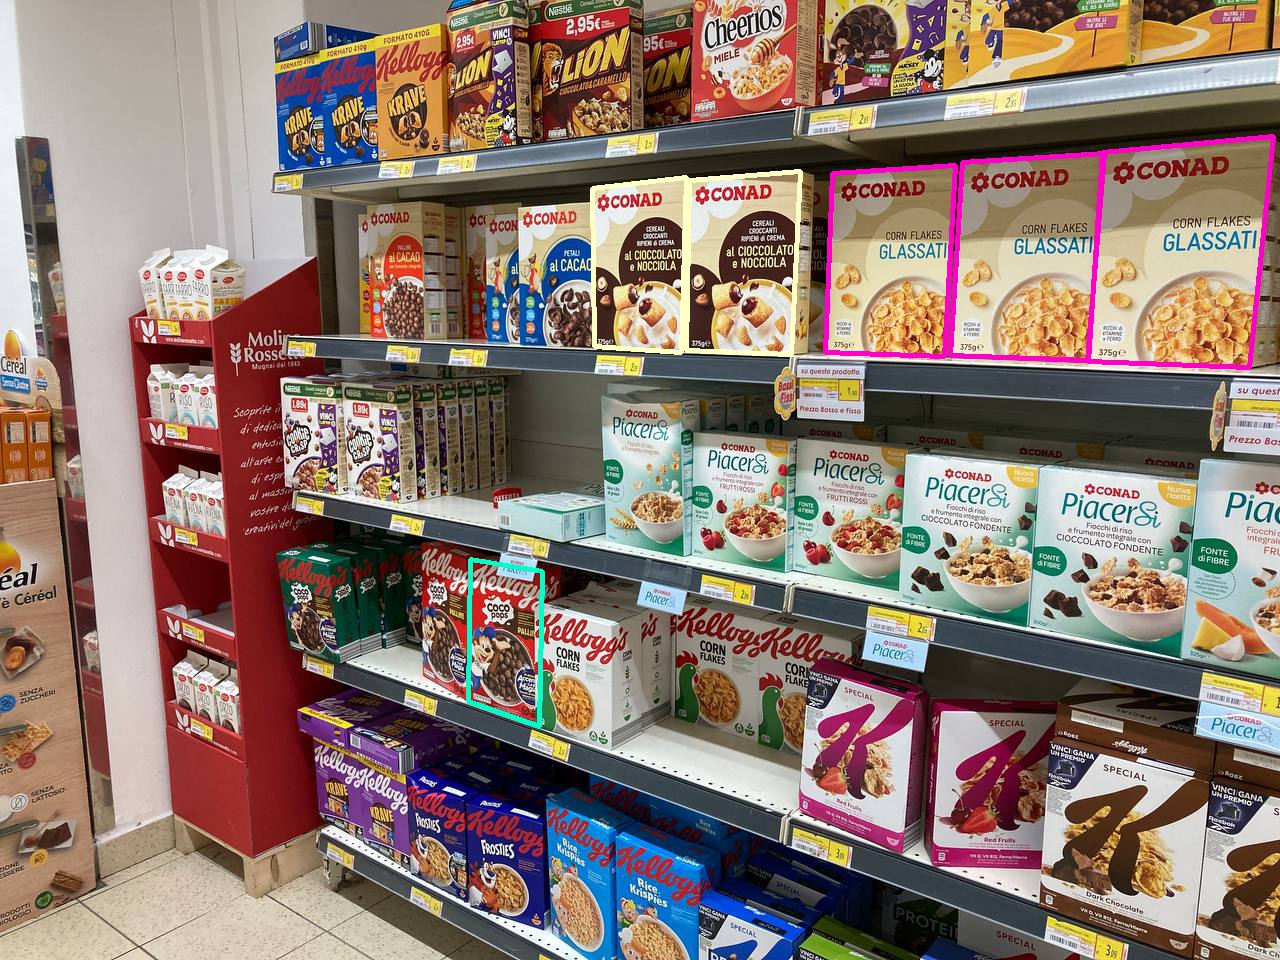
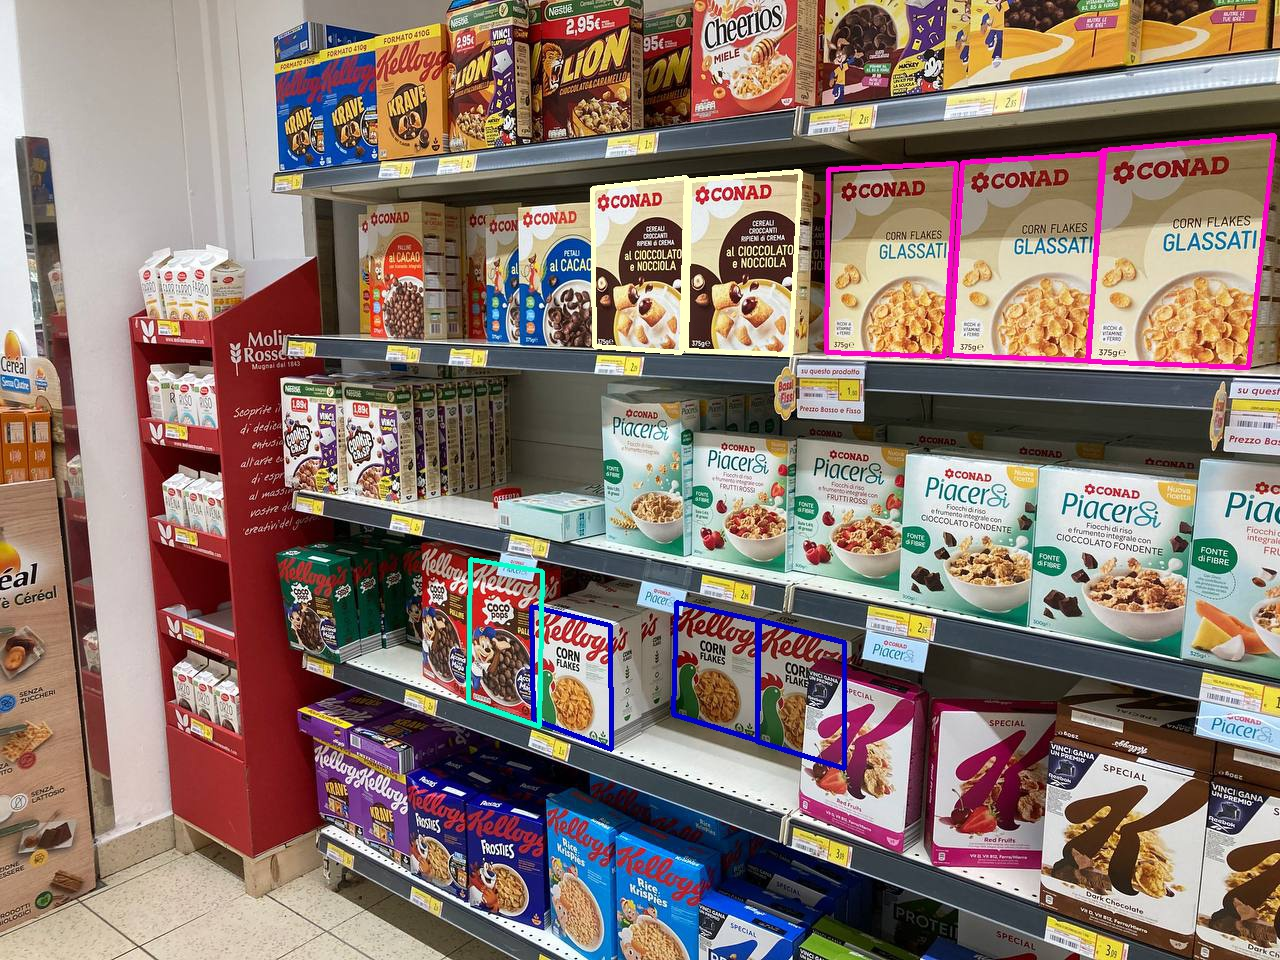
Multiple Templates Detection

diff --git a/template_match_multiple_templates.py b/template_match_multiple_templates.py
@@ -27,6 +27,7 @@ for i, t in enumerate(templates):
     keypoints_obj, descriptors_obj = detector.detectAndCompute(t.image, None)
     keypoints_templates.append(keypoints_obj)
     descriptors_templates.append(descriptors_obj)
+    detector = cv.xfeatures2d_SIFT.create()
 
 keypoints_scene, descriptors_scene = detector.detectAndCompute(img_scene, None)
 
@@ -37,7 +38,7 @@ for i, t in enumerate(templates):
     knn_matches = matcher.knnMatch(descriptors_templates[i], descriptors_scene, 2)
 
     #Filter matches using the Lowe's ratio test
-    ratio_thresh = 0.75
+    ratio_thresh = 0.8
     good_matches_obj = []
     for m,n in knn_matches:
         if m.distance < ratio_thresh * n.distance:
@@ -48,8 +49,6 @@ for i, t in enumerate(templates):
 img_matches = img_scene
 
 for i, t in enumerate(templates):
-    #img_matches = np.empty((max(templates[i].image.shape[0], img_scene.shape[0]), templates[i].image.shape[1]+img_scene.shape[1], 3), dtype=np.uint8)
-    #cv.drawMatches(templates[i].image, keypoints_templates[i], img_scene, keypoints_scene, good_matches_all[i], img_matches, flags=cv.DrawMatchesFlags_NOT_DRAW_SINGLE_POINTS)
     
     #stop flags
     good_matches = good_matches_all[i]
@@ -70,7 +69,7 @@ for i, t in enumerate(templates):
             obj[z,1] = (keypoints_templates[i])[good_matches[z].queryIdx].pt[1]
             scene[z,0] = keypoints_scene[good_matches[z].trainIdx].pt[0]
             scene[z,1] = keypoints_scene[good_matches[z].trainIdx].pt[1]
-        H, inliers_mask =  cv.findHomography(obj, scene, cv.RANSAC, confidence = 0.995, ransacReprojThreshold=4)
+        H, inliers_mask =  cv.findHomography(obj, scene, cv.RANSAC, confidence = 0.995, ransacReprojThreshold=10)
         # H homography from template to scene
 
         #Take points from the scene that fits with the homography
@@ -78,9 +77,11 @@ for i, t in enumerate(templates):
         instance_good_matches = ma.masked_array(good_matches, mask=mask).compressed()
 
         ### Show matches fitting the found homography
-        #cv.drawMatches(img_object, keypoints_obj, img_scene, keypoints_scene, instance_good_matches, img_instance_matches, flags=cv.DrawMatchesFlags_NOT_DRAW_SINGLE_POINTS)
+        #img_instance_matches = np.empty((max(templates[i].image.shape[0], img_scene.shape[0]), templates[i].image.shape[1]+img_scene.shape[1], 3), dtype=np.uint8)
+        #cv.drawMatches(templates[i].image, keypoints_obj, img_scene, keypoints_scene, instance_good_matches, img_instance_matches, flags=cv.DrawMatchesFlags_NOT_DRAW_SINGLE_POINTS)
         #cv.imshow('Good Matches - 1 instance', img_instance_matches)
         #cv.imwrite("output_mask" + str(j) + ".jpg", img_instance_matches)
+        #j += 1
         #cv.waitKey()
 
         #Get the corners from the template
@@ -95,13 +96,17 @@ for i, t in enumerate(templates):
         obj_corners[3,0,1] = templates[i].image.shape[0]
 
         try:
-            if len(instance_good_matches) > 10:
+            if len(instance_good_matches) > 4:
                 #Check for degenerate homography
                 valid = True
                 for k in range(0, len(obj_corners)):
-                    x = obj_corners[k,0,0]
-                    y = obj_corners[k,0,1]
-                    if (H[2][0]*x + H[2][1]*y + H[2][2]) / np.linalg.det(H) <= 0:
+                    det = np.linalg.det(H)
+                    if det != 0:
+                        x = obj_corners[k,0,0]
+                        y = obj_corners[k,0,1]
+                        if (H[2][0]*x + H[2][1]*y + H[2][2]) / det <= 0:
+                            valid = False
+                    else:
                         valid = False
 
                 if(valid):
@@ -109,13 +114,8 @@ for i, t in enumerate(templates):
                     new_good_matches = np.asarray(list(set(good_matches)-set(instance_good_matches)))
                     good_matches = new_good_matches
                     newSize = len(good_matches)
-                else:
-                    random.shuffle(good_matches)
-                    newSize = len(good_matches)
-
-                #Draw Bounding box on the image
-                if valid:
-                     #Draw lines between the corners
+                
+                    #Draw lines between the corners
                     scene_corners = cv.perspectiveTransform(obj_corners, H)
                     cv.line(img_matches, (int(scene_corners[0,0,0] ), int(scene_corners[0,0,1])),\
                         (int(scene_corners[1,0,0] ), int(scene_corners[1,0,1])), (200,255*(i%2),255*(i%3)), 4)
@@ -125,16 +125,16 @@ for i, t in enumerate(templates):
                         (int(scene_corners[3,0,0] ), int(scene_corners[3,0,1])), (200,255*(i%2),255*(i%3)), 4)
                     cv.line(img_matches, (int(scene_corners[3,0,0]), int(scene_corners[3,0,1])),\
                         (int(scene_corners[0,0,0] ), int(scene_corners[0,0,1])), (200,255*(i%2),255*(i%3)), 4)
+                else:
+                    random.shuffle(good_matches)
+                    newSize = len(good_matches)
+            
             else:
-                new_good_matches = np.asarray(list(set(good_matches)-set(instance_good_matches)))
-                good_matches = new_good_matches
+                random.shuffle(good_matches)
                 newSize = len(good_matches)
         except:
             print("Cannot draw bounding box")
             print(H)
-
-        j += 1
-        
 
      ### End Sequential RANSAC
 

diff --git a/template_matching_1.py b/template_matching_1.py
@@ -3,12 +3,12 @@ import numpy as np
 import argparse
 import numpy.ma as ma
 
-img_scene = cv.imread("Test/Test1.jpg", cv.IMREAD_GRAYSCALE)
-img_object = cv.imread("Templates/MrRiceTemplateCrop.jpg", cv.IMREAD_GRAYSCALE)
+img_scene = cv.imread("Test/test_image.jpg", cv.IMREAD_GRAYSCALE)
+img_object = cv.imread("Templates/a_kellogs.png", cv.IMREAD_GRAYSCALE)
 
 #Detect the keypoints using SURF Detector, compute the descriptors
 minHessian = 400
-detector = cv.xfeatures2d_SURF.create(hessianThreshold=minHessian)
+detector = cv.xfeatures2d_SIFT.create()
 keypoints_obj, descriptors_obj = detector.detectAndCompute(img_object, None)
 keypoints_scene, descriptors_scene = detector.detectAndCompute(img_scene, None)
 
@@ -17,7 +17,7 @@ matcher = cv.DescriptorMatcher_create(cv.DescriptorMatcher_FLANNBASED)
 knn_matches = matcher.knnMatch(descriptors_obj, descriptors_scene, 2)
 
 #Filter matches using the Lowe's ratio test
-ratio_thresh = 0.75
+ratio_thresh = 0.82
 good_matches = []
 for m,n in knn_matches:
     if m.distance < ratio_thresh * n.distance:
@@ -108,4 +108,3 @@ while(newSize != oldSize and len(good_matches) >= 4):
 #Show detected matches
 cv.imshow('Good Matches', img_matches)
 cv.imwrite("output.jpg", img_matches)
-cv.waitKey()
